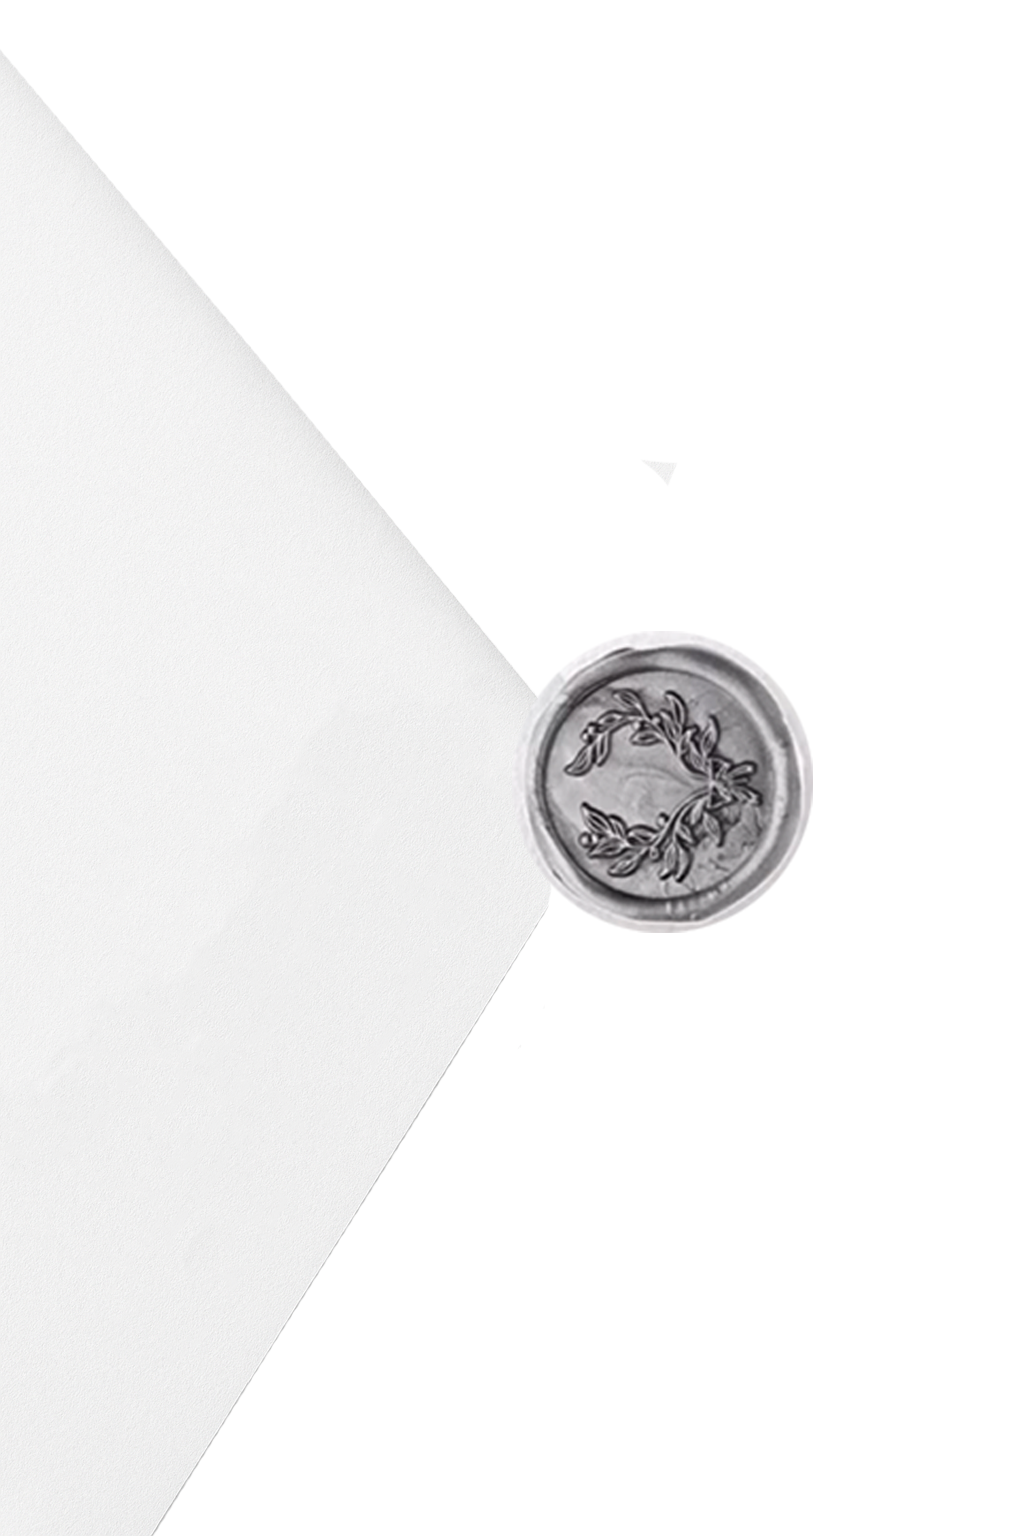
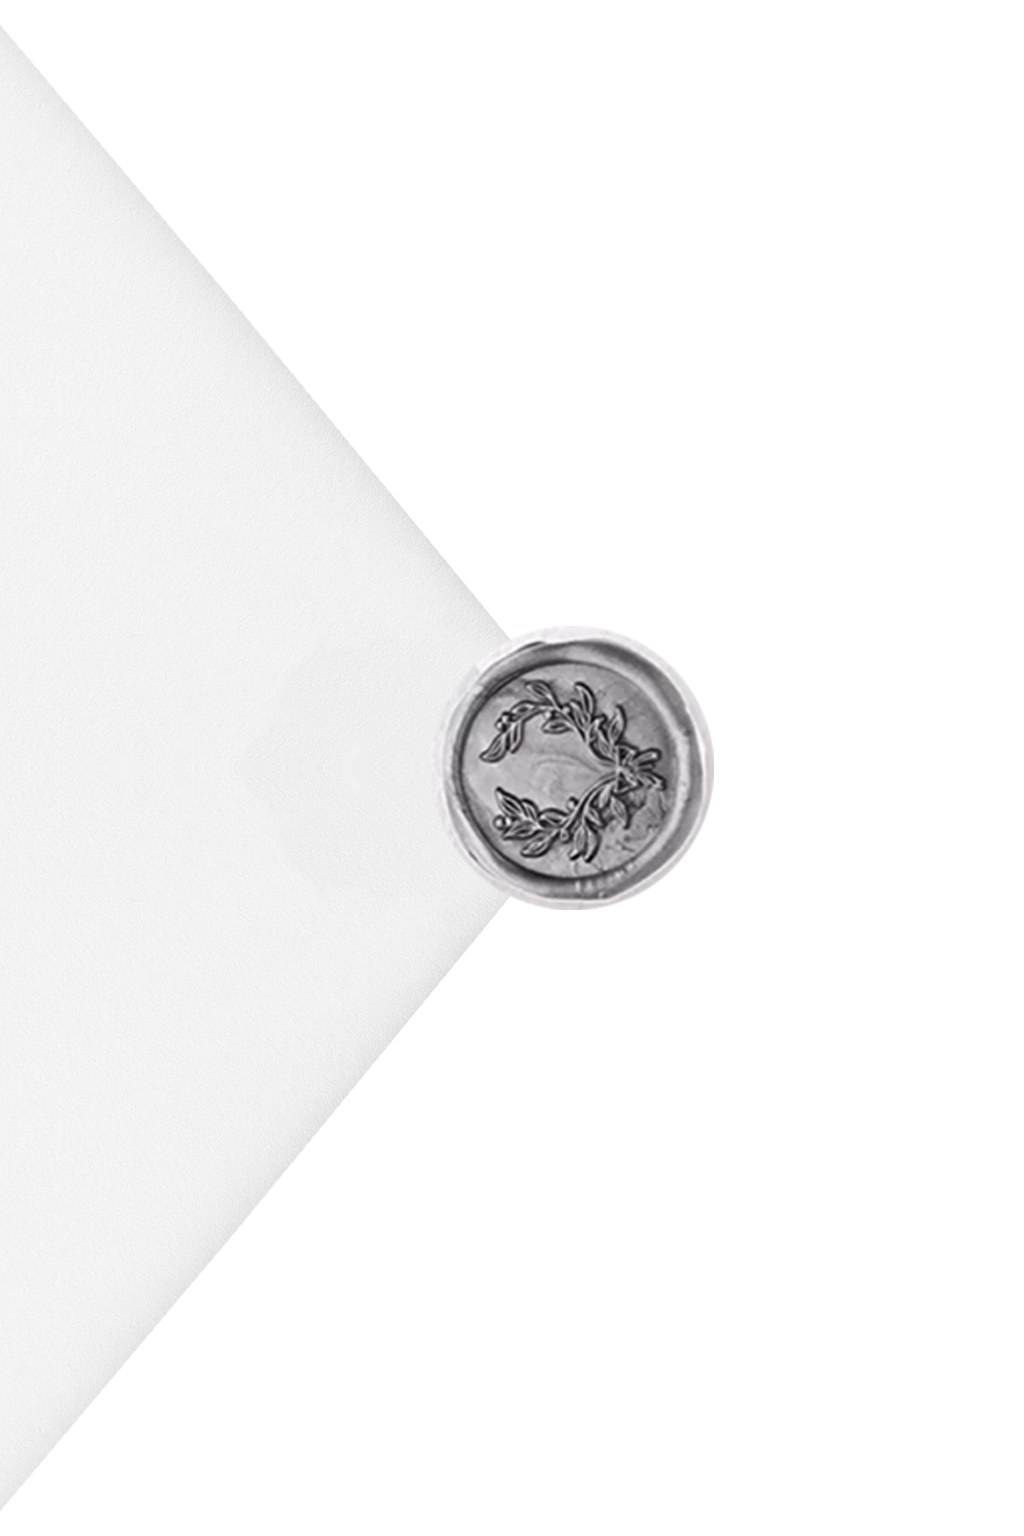
update8

diff --git a/style.css b/style.css
@@ -57,7 +57,7 @@ body {
     position: absolute;
     top: 0;
     left: 50%;
-    width: 40%;
+    width: 50%;
     height: 100vh;
     z-index: 99;
     transform: translateX(-40%);
@@ -68,7 +68,7 @@ body {
     position: absolute;
     top: 0;
     left: 50%;
-    width: 50%;
+    width: 40%;
     height: 100vh;
     transform: translateX(-50%);
     z-index: 98;
@@ -147,7 +147,7 @@ body {
     max-width: 480px;
     width: 100%;
     height: 100vh;
-    background-image: url(1.png);
+    background-image: url(1.jpg);
     background-size: cover;
     background-position: center;
     background-repeat: no-repeat;
@@ -663,17 +663,25 @@ h3 {
 }
 
 @media screen and (max-width : 600px) {
+    .converttop {
+        width: 130%;
+    }
+
+    .convertbody {
+        width: 100%;
+    }
+
     .headertext1 {
-        right: -80%;
+        right: -200%;
         animation: text1_2 2s linear forwards 3s;
     }
-    
+
     .headertext2 {
         animation: text2_2 2s linear forwards 3s;
     }
 
     .headertext3 {
-        left: 70%;
+        left: -225%;
         animation: text3_2 2s linear forwards 3s;
     }
 
@@ -682,11 +690,11 @@ h3 {
     }
 
     .border {
-        left: 5%;
+        left: 15%;
     }
 
     .placeimg {
-        right: 5%;
+        right: 15%;
     }
 
     .footertext1 {
@@ -702,11 +710,16 @@ h3 {
     }
 
     .latetext2 {
-        max-width: 310px;
+        font-size: 20px;
+        max-width: 390px;
     }
 
     .ayan {
         font-size: 24px;
+    }
+
+    .ctext2 {
+        font-size: 42px;
     }
 
     @keyframes text1_2 {
@@ -715,7 +728,7 @@ h3 {
         }
 
         to {
-            right: -35%;
+            right: -20%;
         }
     }
 
@@ -731,11 +744,11 @@ h3 {
 
     @keyframes text3_2 {
         from {
-            left: -50%;
+            left: -225%;
         }
 
         to {
-            left: 50%;
+            left: 45%;
         }
     }
 

diff --git a/index.html b/index.html
@@ -41,8 +41,8 @@
         </div>
         <div class="later _anim-items">
             <h1 class="latetext1">Սիրելի' հյուրեր,</h1>
-            <h2 class="latetext2">Ցանկանում ենք Ձեզ հետ կիսել մեր կյանքի կարևորագույն օրերից մեկը։ Մեծ ուրախությամբ
-                հրավիրում ենք Ձեզ մեր հարսանյաց արարողությանը։</h2>
+            <h2 class="latetext2">Ցանկանում ենք Ձեզ հետ կիսել մեր կյանքի կարևորագույն օրերից մեկը։ <br>
+                Մեծ ուրախությամբ հրավիրում ենք Ձեզ մեր հարսանյաց արարողությանը։</h2>
         </div>
         <div class="calendar _anim-items">
             <h1 class="ctext1">Save the date</h1>
